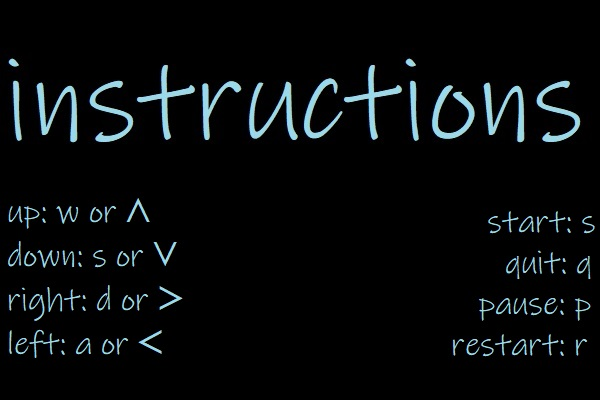
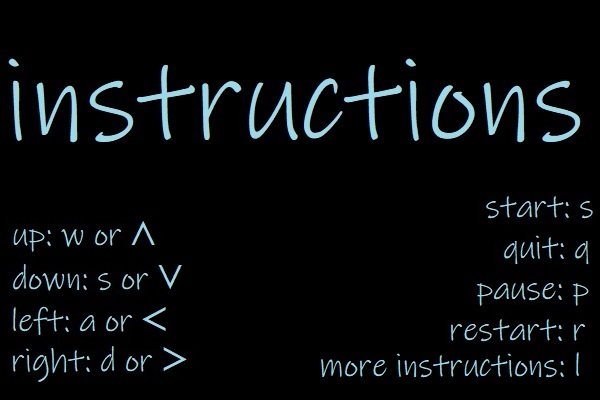
Fixed delay bug

Changed region(s): [[0.0, 0.48, 0.3, 0.96], [0.51, 0.48, 0.99, 0.96]]

diff --git a/window.cpp b/window.cpp
@@ -5,7 +5,9 @@ Window::Window() {
     screen_width = 600;
     cell_height = 30;
     number_of_cells = (screen_height * screen_width) / (cell_height * cell_height);
+    number_of_points = 5;
     restart = true;
+    player = Unknown;
 }
 
 Window::Window(int height, int width, int cell) {
@@ -13,6 +15,8 @@ Window::Window(int height, int width, int cell) {
     screen_width = width;
     cell_height = cell;
     number_of_cells = (screen_height * screen_width) / (cell_height * cell_height);
+    number_of_points = 5;
+    player = Unknown;
     restart = true;
 }
 
@@ -84,6 +88,7 @@ void Window::load_image(const char* filename) {
 
 void Window::starting_screen() {
     running = false;
+    player = Unknown;
     load_image("start.jpg");
     
     while (!running) {
@@ -102,6 +107,10 @@ void Window::instructions() {
     load_image("instructions.jpg");
 }
 
+void Window::player_instructions() {
+    load_image("player_instructions.jpg");
+}
+
 void Window::take_decision() {
 	SDL_Event input;
 	while (SDL_PollEvent(&input)) {
@@ -115,6 +124,9 @@ void Window::take_decision() {
             case SDLK_i:
                 instructions();
                 break;
+            case SDLK_l:
+                player_instructions();
+                break;
             case SDLK_q:
             case SDLK_n:
                 end(EXIT_SUCCESS);
@@ -122,6 +134,19 @@ void Window::take_decision() {
             case SDLK_r:
             case SDLK_y:
                 restart = true;
+                break;
+            case SDLK_m:
+                player = Marcin;
+                break;
+            case SDLK_k:
+                player = Kasia;
+                break;
+            case SDLK_EQUALS:
+                number_of_points++;
+                break;
+            case SDLK_MINUS:
+                if (number_of_points >= 1)
+                   number_of_points--;
                 break;
             }
 		}

diff --git a/score.cpp b/score.cpp
@@ -56,10 +56,49 @@ bool Score::score_a_point() {
 }
 
 void Score::change_score() {
-	char title[30];
+	char title[200];
+	int high_score = highscore();
 	int score = length - starting_length;
-	snprintf(title, 30, "Score: %d", score);
+	snprintf(title, 200, "Score: %d                                                                                             Highscore: %d", score, high_score);
 	SDL_SetWindowTitle(window, title);
+}
+
+int Score::highscore() {
+	string filename = "highscore.txt";
+	if (player == Kasia) filename = "highscore_kasia.txt";
+	if (player == Marcin) filename = "highscore_marcin.txt";
+
+	string line;
+	ifstream file(filename);
+	getline(file, line);
+	int highscore = std::stoi(line);
+	file.close();
+	
+	int score = length - starting_length;
+	if (highscore < score) {
+		ofstream myfile;
+		myfile.open(filename);
+		myfile << score;
+		myfile.close();
+		highscore = score;
+	}
+	return highscore;
+}
+
+void Score::clean_highscores() {
+	string filename = "highscore.txt";
+	ofstream myfile;
+	myfile.open(filename);
+	myfile << 0;
+	myfile.close();
+	filename = "highscore_kasia.txt";
+	myfile.open(filename);
+	myfile << 0;
+	myfile.close();
+	filename = "highscore_marcin.txt";
+	myfile.open(filename);
+	myfile << 0;
+	myfile.close();
 }
 
 bool Score::is_snake_hurt() {

diff --git a/display.cpp b/display.cpp
@@ -1,7 +1,7 @@
 #include "display.hpp"
 
 Display::Display() : Score() {
-	colors = new Colors[number_of_points];
+	colors = new Colors[number_of_cells];
 	for (int i = 0; i < number_of_points; i++)
 		colors[i] = Colors();
 	gradient = new Color[number_of_cells];
@@ -28,9 +28,9 @@ void Display::generate_gradient() {
 	int step = 15;
 	if(length > 10)
 		 step = 200 / length + 1;
-
 	for (int i = 1; i < length; i++) 
 		gradient[i] = col.next_color(gradient[i - 1], step);
+
 }
 
 void Display::extend_gradient() {
@@ -50,10 +50,9 @@ void Display::draw() {
 		generate_gradient();
 
 	draw_head(gradient[0], position[0]);
-
-	for (int i = 1; i < length; i++) {
+	for (int i = 1; i < length; i++) 
 		draw_rect(gradient[i], position[i]);
-	}
+
 
 	for (int i = 0; i < number_of_points; i++) {
 		SDL_Rect p = point_to_rect(points[i]);
@@ -61,7 +60,6 @@ void Display::draw() {
 	}
 
 	SDL_RenderPresent(renderer);
-	SDL_Delay(70);
 }
 
 

diff --git a/window.hpp b/window.hpp
@@ -7,6 +7,7 @@
 #include <string>
 
 using namespace std;
+enum Player { Unknown, Kasia, Marcin };
 
 class Window {
 protected:
@@ -14,10 +15,12 @@ protected:
     int screen_width;
     int cell_height;
     int number_of_cells;
+    int number_of_points;
     SDL_Renderer* renderer;
     SDL_Window* window;
     SDL_Surface* image;
     SDL_Texture* texture;
+    enum Player player;
     
 public:
     bool restart;
@@ -31,6 +34,7 @@ public:
     void take_decision();
     void starting_screen();
     void instructions();
+    void player_instructions();
     void load_image(const char* filename);
     void destroy_image();
 };

diff --git a/score.hpp b/score.hpp
@@ -1,14 +1,15 @@
 #ifndef SCORE
 #define SCORE
 
+#include <fstream>
 #include "movement.hpp"
 #include "point.hpp"
+
 
 using namespace std;
 
 class Score : public Movement {
 protected:
-	const int number_of_points = 5;
 	Point* points;
 public:
 	Score();
@@ -16,8 +17,10 @@ public:
 	void generate_points();
 	void new_point();
 	bool score_a_point();
+	int highscore();
 	void change_score();
 	bool is_snake_hurt();
+	void clean_highscores();
 };
 
 

diff --git a/movement.cpp b/movement.cpp
@@ -11,12 +11,6 @@ void Movement::start() {
 	starting_length = 5;
 	length = starting_length;
 	position = new SDL_Rect[number_of_cells];
-	for (int i = length; i < number_of_cells; i++) {
-		position[i].x = 0;
-		position[i].y = 0;
-		position[i].h = 0;
-		position[i].w = 0;
-	}
 	position[0].x = 5 * cell_height;
 	position[0].y = 5 * cell_height;
 	position[0].w = cell_height;

diff --git a/colors.cpp b/colors.cpp
@@ -44,10 +44,11 @@ Color Colors::next_color(Color previous, int step) {
 			next.green = previous.green + step;
 			if (next.green > brightest.green) {
 				green_direction = 1;
-				next.green = previous.green + step;
+				next.green = previous.green - step;
 				changing_one++;
 			}
 		}
+		break;
 	case 2:
 		
 		if (blue_direction == 0) {

diff --git a/main.cpp b/main.cpp
@@ -14,16 +14,16 @@ int main(int argc, char* argv[]) {
 		a.start();
 		a.generate_gradient();
 		a.generate_points();
+		a.change_score();
 		while (a.running) {
 			a.draw();
-			a.move();
 			a.take_input();
-			
+			a.move();
 			if (a.is_snake_hurt()) 
 				a.kill();
+			SDL_Delay(70);
 		}
 		a.restart_screen();
-		
 	}
 
 

diff --git a/movement.hpp b/movement.hpp
@@ -4,7 +4,6 @@
 #include "window.hpp"
 #include <queue>
 
-
 enum Direction { Up, Right, Down, Left };
 
 class Movement : public Window{
